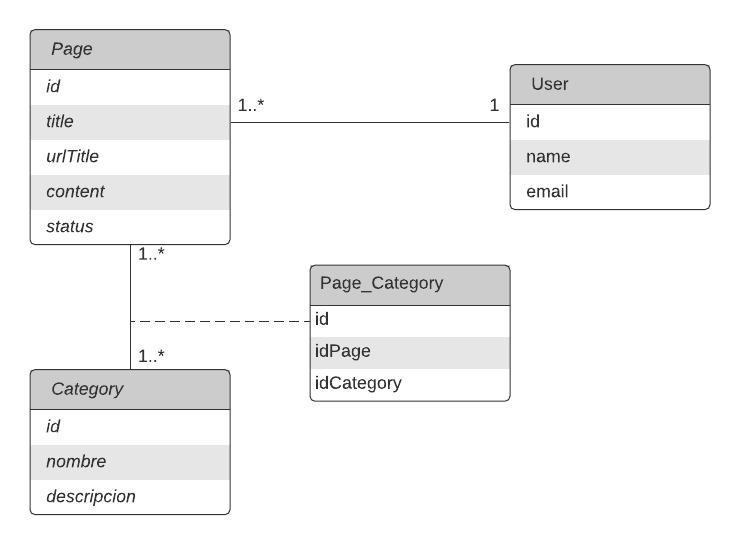
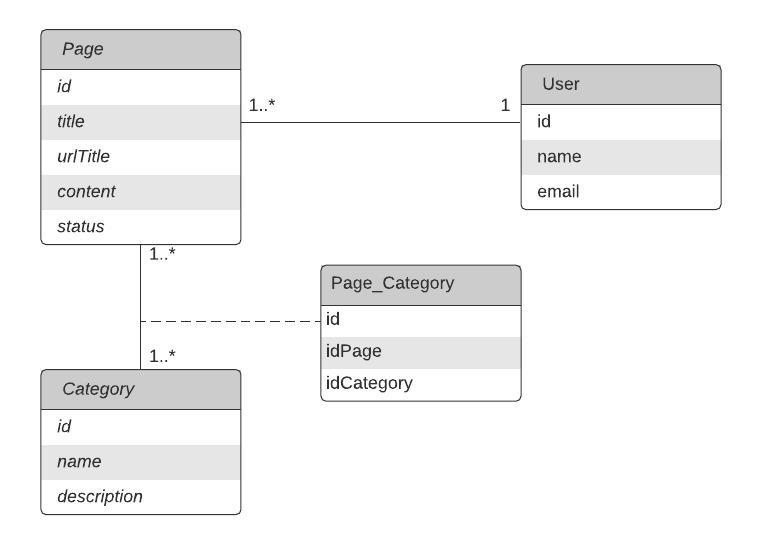
Continue hw sequelize

diff --git a/03-sequelize/homework/models/index.js b/03-sequelize/homework/models/index.js
@@ -15,6 +15,11 @@ const User = db.define('users', {
 
 })
 
+const Category = db.define('category', {
+  // Tu código acá:
+
+})
+
 // Vincular User con Page
 // Tu código acá:
 
@@ -22,5 +27,6 @@ const User = db.define('users', {
 module.exports = {
   User,
   Page,
+  Category,
   db
 }

diff --git a/03-sequelize/homework/README.md b/03-sequelize/homework/README.md
@@ -30,7 +30,7 @@ Dentro del modelo de la base de datos que vamos a utilizar en este ejercicio deb
 
 #### Diagrama Entidad-Relación
 
-Antes de comenzar a codear tomate un tiempo para pensar como deberían ser las relaciones entre estas tres entidades que debemos definir para el blog.
+Antes de comenzar a codear tomate un tiempo para pensar como deberían ser las relaciones entre estas tres entidades que debemos definir para el blog considerando que una página puede pertenecer a más de una categoría.
 
 #### Page
 
@@ -49,6 +49,13 @@ La entidad `User` va a correponder a aquellos usuarios que participen del Blog g
   * __name__*: Nombre completo del usuario
   * __email__*: Email del usuario (Debe ser único)
 
+#### Category
+
+La entidad `Category` corresponde a las distintas categorías o temas a los que puede pertenecer una paǵina, por lo que minimamente debería contener:
+
+  * __name__*: Nombre de la categoría (Debe ser único)
+  * __description__: Descripción de la categoría
+
 ##### Esquema
 
 Para llevar adelante esta tarea será necesario modificar el archivo `index.js` de la carpeta `models`:
@@ -60,6 +67,11 @@ Para llevar adelante esta tarea será necesario modificar el archivo `index.js` 
   });
 
   const User = db.define('users', {
+    // Tu código acá:
+
+  })
+
+  const Category = db.define('category', {
     // Tu código acá:
 
   })
